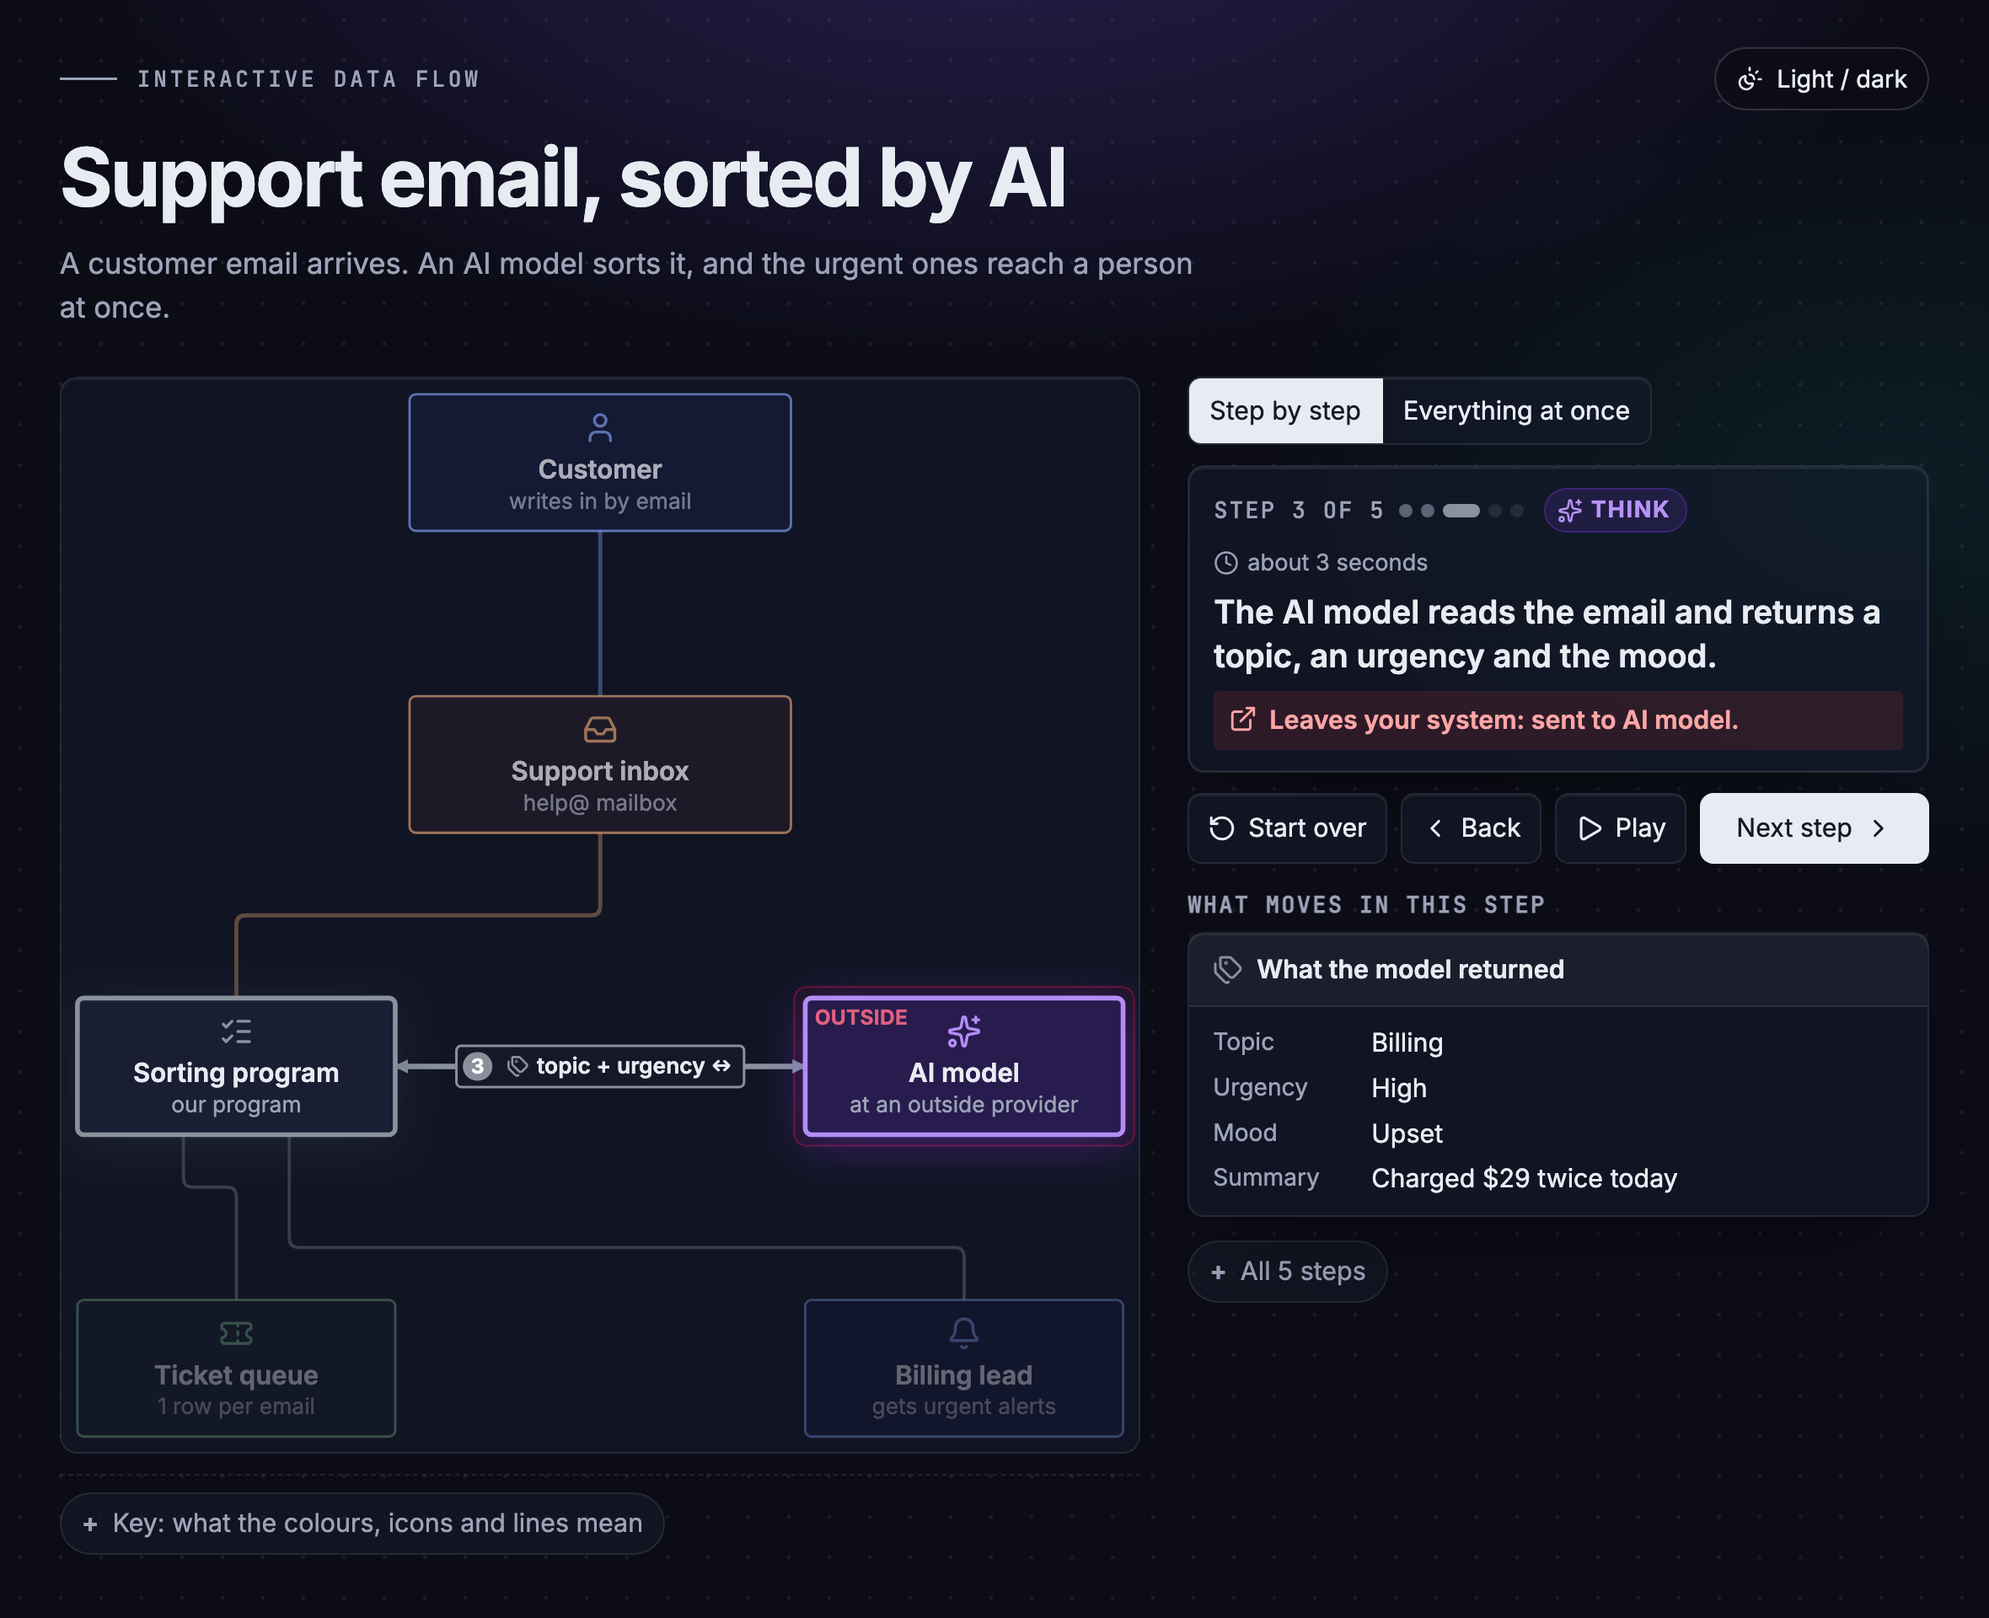
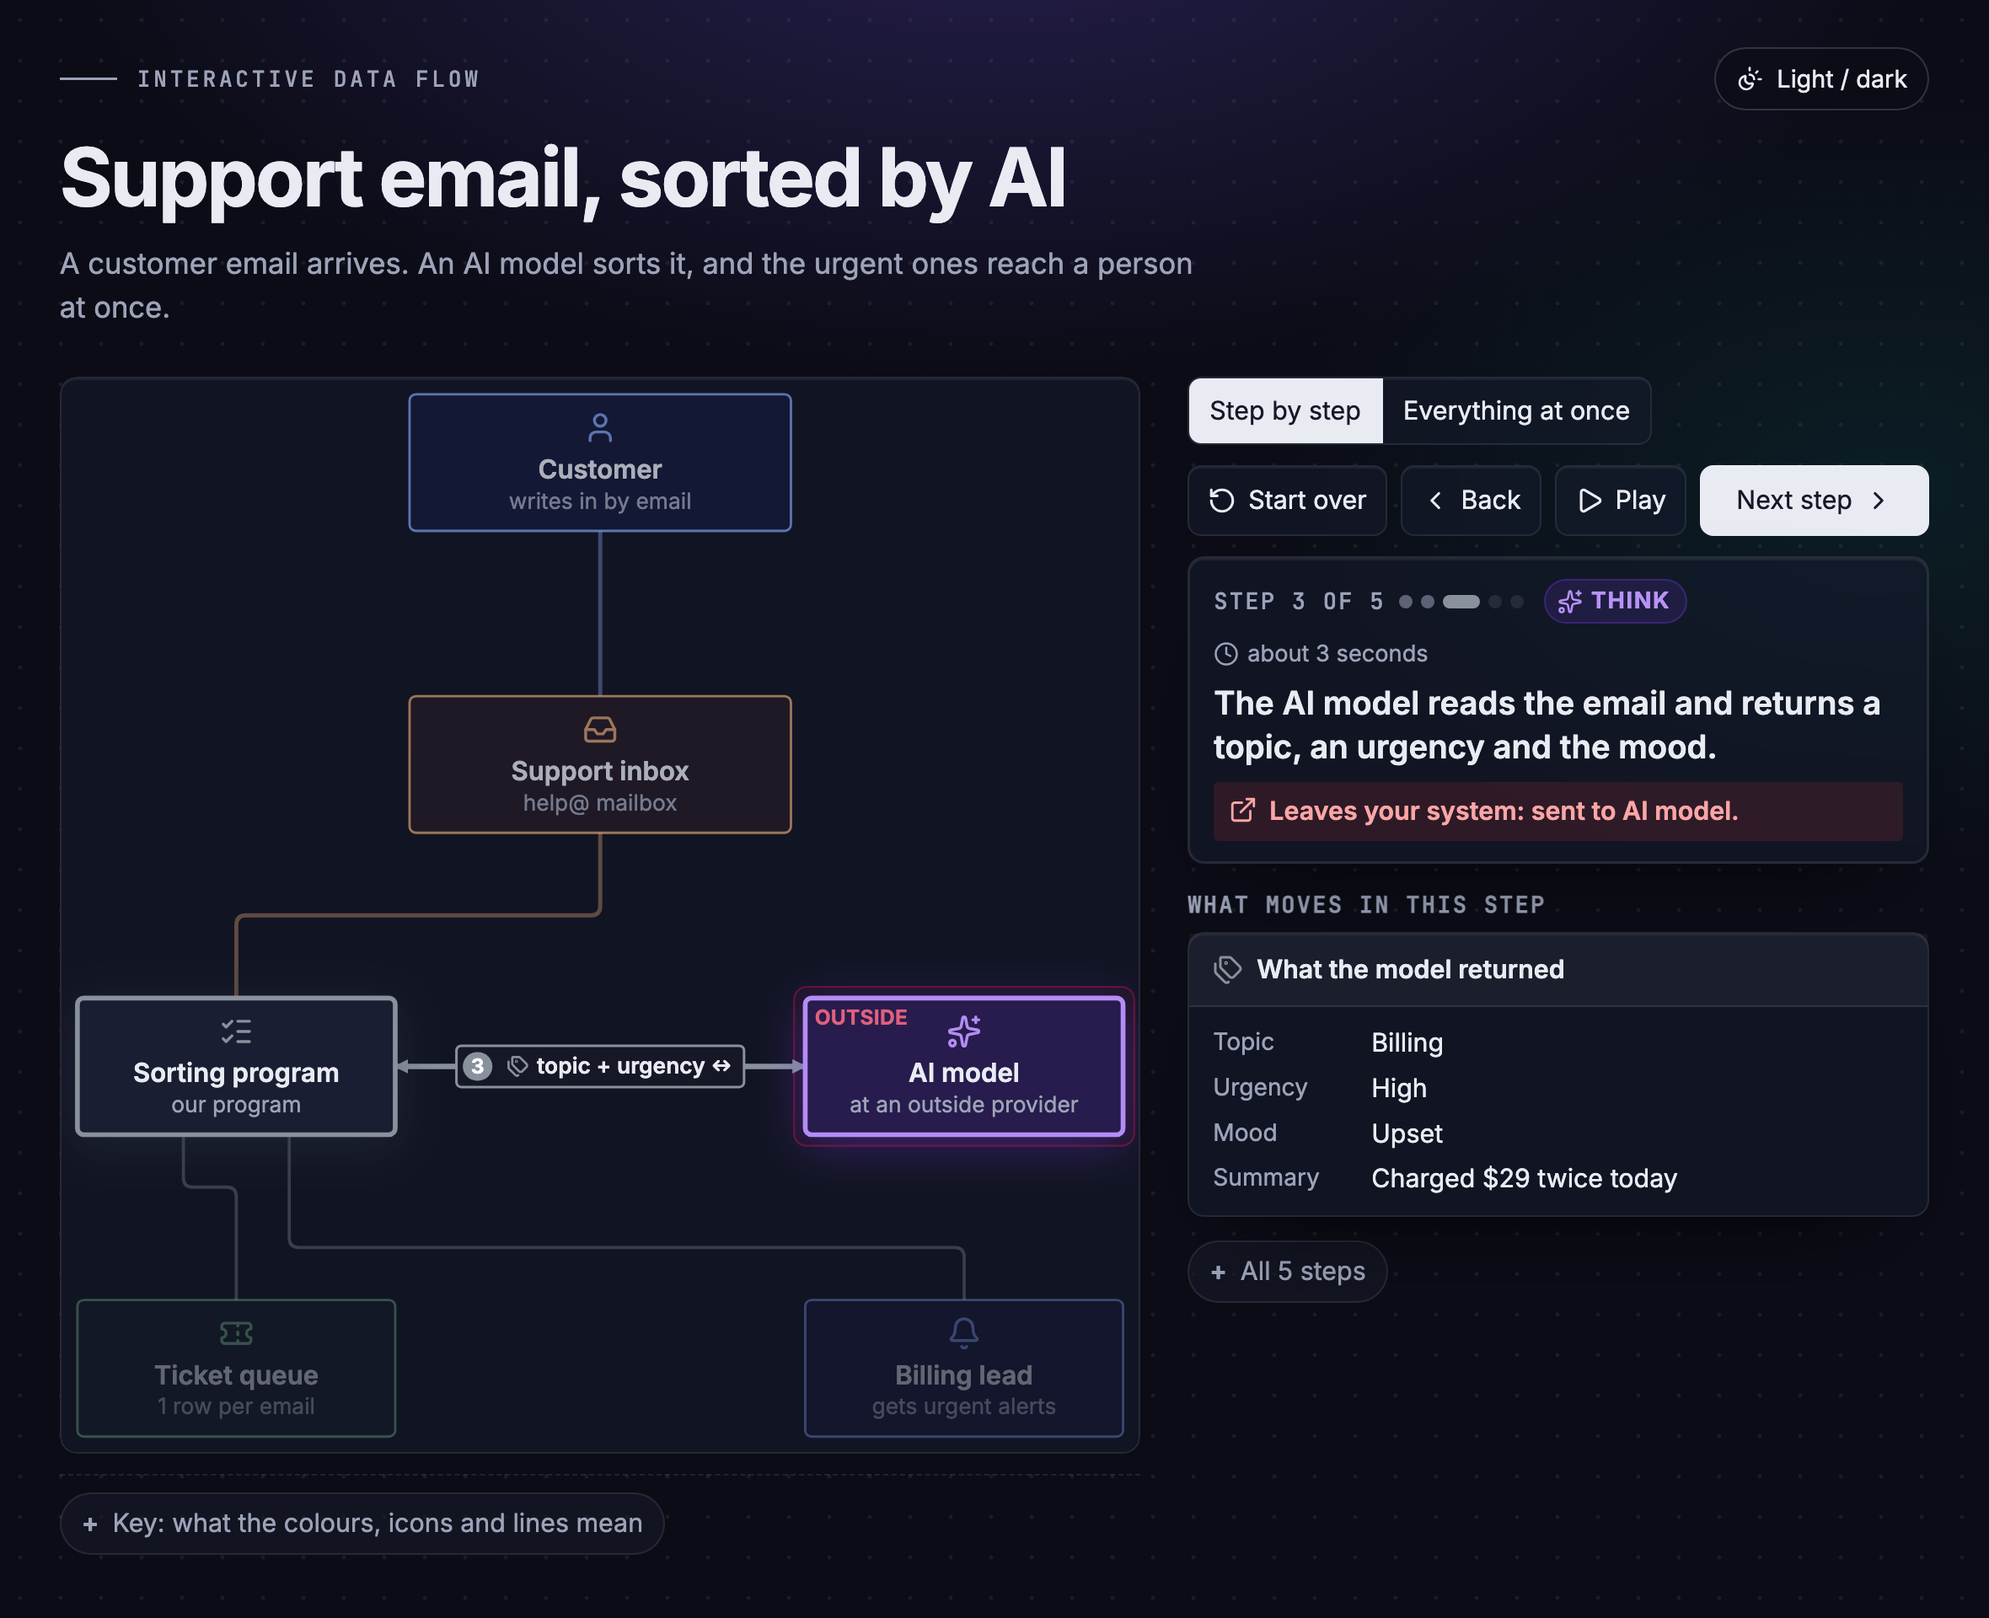
Step buttons above the step card, so they stay put when a step is longer

Changed region(s): [[0.5877, 0.2812, 0.9898, 0.5312]]

diff --git a/docs/examples/notes-inbox.html b/docs/examples/notes-inbox.html
@@ -159,7 +159,7 @@ h1{font-family:"Inter",ui-sans-serif,system-ui,sans-serif;font-weight:650;font-s
 .df-act{display:inline-flex;align-items:center;gap:5px;color:#fff;font-size:.85rem;font-weight:700;letter-spacing:.06em;text-transform:uppercase;border-radius:3px;padding:3px 8px 3px 6px}
 .df-act svg{width:15px;height:15px}
 .df-text{margin:6px 0 0;font-size:1.05rem}
-.df-nav{display:grid;grid-template-columns:auto auto auto 1fr;gap:8px;margin-top:12px}
+.df-nav{display:grid;grid-template-columns:auto auto auto 1fr;gap:8px;margin:0 0 12px}
 .df-nav button{display:inline-flex;align-items:center;justify-content:center;gap:7px;min-height:42px;font-weight:600;white-space:nowrap}
 @media (max-width:480px){.df-nav{grid-template-columns:1fr 1fr}}
 .df-nav button svg{width:17px;height:17px;flex:none;fill:none;stroke:currentColor;stroke-width:2.2;stroke-linecap:round;stroke-linejoin:round}
@@ -289,8 +289,8 @@ html[data-df-theme="dark"] .df{--a-ink-mix:white;--a-ink-amt:45%}
     <div>
       <div class="df-seg df-view" role="group" aria-label="View"><button type="button" data-view="steps" aria-pressed="true">Step by step</button><button type="button" data-view="all" aria-pressed="false">Everything at once</button></div>
       <div class="df-seg" role="group" aria-label="Scenario"><button type="button" data-s="file" aria-pressed="true">Files a note</button><button type="button" data-s="ask" aria-pressed="false">Asks a question</button></div>
-      <div class="df-cap" aria-live="polite"><div class="df-caphead"><span class="df-count"></span><span class="df-dots" aria-hidden="true"></span><span class="df-act"></span><span class="df-time" hidden></span></div><p class="df-text"></p><p class="df-carry" hidden></p><p class="df-leaves" hidden></p><p class="df-ifnot" hidden></p></div>
       <div class="df-nav"><button type="button" class="df-restart" title="Back to step 1 (Home key)"><svg viewBox="0 0 24 24" fill="none" stroke="currentColor" stroke-width="2" stroke-linecap="round" stroke-linejoin="round" aria-hidden="true"><path d="M3 12a9 9 0 1 0 9-9 9.75 9.75 0 0 0-6.74 2.74L3 8"/><path d="M3 3v5h5"/></svg><span>Start over</span></button><button type="button" class="df-back" title="Previous step (left arrow key)"><svg viewBox="0 0 24 24" fill="none" stroke="currentColor" stroke-width="2" stroke-linecap="round" stroke-linejoin="round" aria-hidden="true"><path d="m15 18-6-6 6-6"/></svg><span>Back</span></button><button type="button" class="df-play" aria-pressed="false" title="Run the steps by themselves"></button><button type="button" class="df-next" title="Next step (right arrow key)"><span>Next step</span><svg viewBox="0 0 24 24" fill="none" stroke="currentColor" stroke-width="2" stroke-linecap="round" stroke-linejoin="round" aria-hidden="true"><path d="m9 18 6-6-6-6"/></svg></button></div>
+      <div class="df-cap" aria-live="polite"><div class="df-caphead"><span class="df-count"></span><span class="df-dots" aria-hidden="true"></span><span class="df-act"></span><span class="df-time" hidden></span></div><p class="df-text"></p><p class="df-carry" hidden></p><p class="df-leaves" hidden></p><p class="df-ifnot" hidden></p></div>
       <section class="df-item" aria-live="polite"><h4 class="df-item-h">What moves in this step</h4><div class="df-item-card"></div></section>
       <details class="df-stepfold"><summary class="df-stepfold-s">All steps</summary><ol class="df-steps"></ol></details>
       <button type="button" class="df-motion" role="switch" aria-checked="false" title="Make the tags travel along their lines"><span class="df-switch" aria-hidden="true"></span><span>Moving tags: <b class="df-motion-state">off</b></span></button>

diff --git a/docs/examples/online-order.html b/docs/examples/online-order.html
@@ -159,7 +159,7 @@ h1{font-family:"Inter",ui-sans-serif,system-ui,sans-serif;font-weight:650;font-s
 .df-act{display:inline-flex;align-items:center;gap:5px;color:#fff;font-size:.85rem;font-weight:700;letter-spacing:.06em;text-transform:uppercase;border-radius:3px;padding:3px 8px 3px 6px}
 .df-act svg{width:15px;height:15px}
 .df-text{margin:6px 0 0;font-size:1.05rem}
-.df-nav{display:grid;grid-template-columns:auto auto auto 1fr;gap:8px;margin-top:12px}
+.df-nav{display:grid;grid-template-columns:auto auto auto 1fr;gap:8px;margin:0 0 12px}
 .df-nav button{display:inline-flex;align-items:center;justify-content:center;gap:7px;min-height:42px;font-weight:600;white-space:nowrap}
 @media (max-width:480px){.df-nav{grid-template-columns:1fr 1fr}}
 .df-nav button svg{width:17px;height:17px;flex:none;fill:none;stroke:currentColor;stroke-width:2.2;stroke-linecap:round;stroke-linejoin:round}
@@ -289,8 +289,8 @@ html[data-df-theme="dark"] .df{--a-ink-mix:white;--a-ink-amt:45%}
     <div>
       <div class="df-seg df-view" role="group" aria-label="View"><button type="button" data-view="steps" aria-pressed="true">Step by step</button><button type="button" data-view="all" aria-pressed="false">Everything at once</button></div>
       
-      <div class="df-cap" aria-live="polite"><div class="df-caphead"><span class="df-count"></span><span class="df-dots" aria-hidden="true"></span><span class="df-act"></span><span class="df-time" hidden></span></div><p class="df-text"></p><p class="df-carry" hidden></p><p class="df-leaves" hidden></p><p class="df-ifnot" hidden></p></div>
       <div class="df-nav"><button type="button" class="df-restart" title="Back to step 1 (Home key)"><svg viewBox="0 0 24 24" fill="none" stroke="currentColor" stroke-width="2" stroke-linecap="round" stroke-linejoin="round" aria-hidden="true"><path d="M3 12a9 9 0 1 0 9-9 9.75 9.75 0 0 0-6.74 2.74L3 8"/><path d="M3 3v5h5"/></svg><span>Start over</span></button><button type="button" class="df-back" title="Previous step (left arrow key)"><svg viewBox="0 0 24 24" fill="none" stroke="currentColor" stroke-width="2" stroke-linecap="round" stroke-linejoin="round" aria-hidden="true"><path d="m15 18-6-6 6-6"/></svg><span>Back</span></button><button type="button" class="df-play" aria-pressed="false" title="Run the steps by themselves"></button><button type="button" class="df-next" title="Next step (right arrow key)"><span>Next step</span><svg viewBox="0 0 24 24" fill="none" stroke="currentColor" stroke-width="2" stroke-linecap="round" stroke-linejoin="round" aria-hidden="true"><path d="m9 18 6-6-6-6"/></svg></button></div>
+      <div class="df-cap" aria-live="polite"><div class="df-caphead"><span class="df-count"></span><span class="df-dots" aria-hidden="true"></span><span class="df-act"></span><span class="df-time" hidden></span></div><p class="df-text"></p><p class="df-carry" hidden></p><p class="df-leaves" hidden></p><p class="df-ifnot" hidden></p></div>
       <section class="df-item" aria-live="polite"><h4 class="df-item-h">What moves in this step</h4><div class="df-item-card"></div></section>
       <details class="df-stepfold"><summary class="df-stepfold-s">All steps</summary><ol class="df-steps"></ol></details>
       <button type="button" class="df-motion" role="switch" aria-checked="false" title="Make the tags travel along their lines"><span class="df-switch" aria-hidden="true"></span><span>Moving tags: <b class="df-motion-state">off</b></span></button>

diff --git a/docs/examples/sign-up.html b/docs/examples/sign-up.html
@@ -159,7 +159,7 @@ h1{font-family:"Inter",ui-sans-serif,system-ui,sans-serif;font-weight:650;font-s
 .df-act{display:inline-flex;align-items:center;gap:5px;color:#fff;font-size:.85rem;font-weight:700;letter-spacing:.06em;text-transform:uppercase;border-radius:3px;padding:3px 8px 3px 6px}
 .df-act svg{width:15px;height:15px}
 .df-text{margin:6px 0 0;font-size:1.05rem}
-.df-nav{display:grid;grid-template-columns:auto auto auto 1fr;gap:8px;margin-top:12px}
+.df-nav{display:grid;grid-template-columns:auto auto auto 1fr;gap:8px;margin:0 0 12px}
 .df-nav button{display:inline-flex;align-items:center;justify-content:center;gap:7px;min-height:42px;font-weight:600;white-space:nowrap}
 @media (max-width:480px){.df-nav{grid-template-columns:1fr 1fr}}
 .df-nav button svg{width:17px;height:17px;flex:none;fill:none;stroke:currentColor;stroke-width:2.2;stroke-linecap:round;stroke-linejoin:round}
@@ -289,8 +289,8 @@ html[data-df-theme="dark"] .df{--a-ink-mix:white;--a-ink-amt:45%}
     <div>
       <div class="df-seg df-view" role="group" aria-label="View"><button type="button" data-view="steps" aria-pressed="true">Step by step</button><button type="button" data-view="all" aria-pressed="false">Everything at once</button></div>
       
-      <div class="df-cap" aria-live="polite"><div class="df-caphead"><span class="df-count"></span><span class="df-dots" aria-hidden="true"></span><span class="df-act"></span><span class="df-time" hidden></span></div><p class="df-text"></p><p class="df-carry" hidden></p><p class="df-leaves" hidden></p><p class="df-ifnot" hidden></p></div>
       <div class="df-nav"><button type="button" class="df-restart" title="Back to step 1 (Home key)"><svg viewBox="0 0 24 24" fill="none" stroke="currentColor" stroke-width="2" stroke-linecap="round" stroke-linejoin="round" aria-hidden="true"><path d="M3 12a9 9 0 1 0 9-9 9.75 9.75 0 0 0-6.74 2.74L3 8"/><path d="M3 3v5h5"/></svg><span>Start over</span></button><button type="button" class="df-back" title="Previous step (left arrow key)"><svg viewBox="0 0 24 24" fill="none" stroke="currentColor" stroke-width="2" stroke-linecap="round" stroke-linejoin="round" aria-hidden="true"><path d="m15 18-6-6 6-6"/></svg><span>Back</span></button><button type="button" class="df-play" aria-pressed="false" title="Run the steps by themselves"></button><button type="button" class="df-next" title="Next step (right arrow key)"><span>Next step</span><svg viewBox="0 0 24 24" fill="none" stroke="currentColor" stroke-width="2" stroke-linecap="round" stroke-linejoin="round" aria-hidden="true"><path d="m9 18 6-6-6-6"/></svg></button></div>
+      <div class="df-cap" aria-live="polite"><div class="df-caphead"><span class="df-count"></span><span class="df-dots" aria-hidden="true"></span><span class="df-act"></span><span class="df-time" hidden></span></div><p class="df-text"></p><p class="df-carry" hidden></p><p class="df-leaves" hidden></p><p class="df-ifnot" hidden></p></div>
       <section class="df-item" aria-live="polite"><h4 class="df-item-h">What moves in this step</h4><div class="df-item-card"></div></section>
       <details class="df-stepfold"><summary class="df-stepfold-s">All steps</summary><ol class="df-steps"></ol></details>
       <button type="button" class="df-motion" role="switch" aria-checked="false" title="Make the tags travel along their lines"><span class="df-switch" aria-hidden="true"></span><span>Moving tags: <b class="df-motion-state">off</b></span></button>

diff --git a/docs/examples/support-triage.html b/docs/examples/support-triage.html
@@ -159,7 +159,7 @@ h1{font-family:"Inter",ui-sans-serif,system-ui,sans-serif;font-weight:650;font-s
 .df-act{display:inline-flex;align-items:center;gap:5px;color:#fff;font-size:.85rem;font-weight:700;letter-spacing:.06em;text-transform:uppercase;border-radius:3px;padding:3px 8px 3px 6px}
 .df-act svg{width:15px;height:15px}
 .df-text{margin:6px 0 0;font-size:1.05rem}
-.df-nav{display:grid;grid-template-columns:auto auto auto 1fr;gap:8px;margin-top:12px}
+.df-nav{display:grid;grid-template-columns:auto auto auto 1fr;gap:8px;margin:0 0 12px}
 .df-nav button{display:inline-flex;align-items:center;justify-content:center;gap:7px;min-height:42px;font-weight:600;white-space:nowrap}
 @media (max-width:480px){.df-nav{grid-template-columns:1fr 1fr}}
 .df-nav button svg{width:17px;height:17px;flex:none;fill:none;stroke:currentColor;stroke-width:2.2;stroke-linecap:round;stroke-linejoin:round}
@@ -289,8 +289,8 @@ html[data-df-theme="dark"] .df{--a-ink-mix:white;--a-ink-amt:45%}
     <div>
       <div class="df-seg df-view" role="group" aria-label="View"><button type="button" data-view="steps" aria-pressed="true">Step by step</button><button type="button" data-view="all" aria-pressed="false">Everything at once</button></div>
       
-      <div class="df-cap" aria-live="polite"><div class="df-caphead"><span class="df-count"></span><span class="df-dots" aria-hidden="true"></span><span class="df-act"></span><span class="df-time" hidden></span></div><p class="df-text"></p><p class="df-carry" hidden></p><p class="df-leaves" hidden></p><p class="df-ifnot" hidden></p></div>
       <div class="df-nav"><button type="button" class="df-restart" title="Back to step 1 (Home key)"><svg viewBox="0 0 24 24" fill="none" stroke="currentColor" stroke-width="2" stroke-linecap="round" stroke-linejoin="round" aria-hidden="true"><path d="M3 12a9 9 0 1 0 9-9 9.75 9.75 0 0 0-6.74 2.74L3 8"/><path d="M3 3v5h5"/></svg><span>Start over</span></button><button type="button" class="df-back" title="Previous step (left arrow key)"><svg viewBox="0 0 24 24" fill="none" stroke="currentColor" stroke-width="2" stroke-linecap="round" stroke-linejoin="round" aria-hidden="true"><path d="m15 18-6-6 6-6"/></svg><span>Back</span></button><button type="button" class="df-play" aria-pressed="false" title="Run the steps by themselves"></button><button type="button" class="df-next" title="Next step (right arrow key)"><span>Next step</span><svg viewBox="0 0 24 24" fill="none" stroke="currentColor" stroke-width="2" stroke-linecap="round" stroke-linejoin="round" aria-hidden="true"><path d="m9 18 6-6-6-6"/></svg></button></div>
+      <div class="df-cap" aria-live="polite"><div class="df-caphead"><span class="df-count"></span><span class="df-dots" aria-hidden="true"></span><span class="df-act"></span><span class="df-time" hidden></span></div><p class="df-text"></p><p class="df-carry" hidden></p><p class="df-leaves" hidden></p><p class="df-ifnot" hidden></p></div>
       <section class="df-item" aria-live="polite"><h4 class="df-item-h">What moves in this step</h4><div class="df-item-card"></div></section>
       <details class="df-stepfold"><summary class="df-stepfold-s">All steps</summary><ol class="df-steps"></ol></details>
       <button type="button" class="df-motion" role="switch" aria-checked="false" title="Make the tags travel along their lines"><span class="df-switch" aria-hidden="true"></span><span>Moving tags: <b class="df-motion-state">off</b></span></button>

diff --git a/learnings.md b/learnings.md
@@ -80,3 +80,6 @@ Tests: 35 of 35 pass (run through Runner).
   through has the same number of emoji to its left; no emoji inside boxes; the gap between side-by-side boxes widens
   until each arrow label fits on its arrow. New checker names every line that would bend; its test failed when the
   checker was broken on purpose. The khan skill now ships in the package, with no personal names. Tests: 41 of 41.
+- **The step buttons moved down whenever a step had more text,** so the reader had to click a different spot each
+  time. Fix: the buttons sit above the step card, in the same place on every step. Checked on a 1-line and a
+  4-line step. Tests: 42 of 42.
